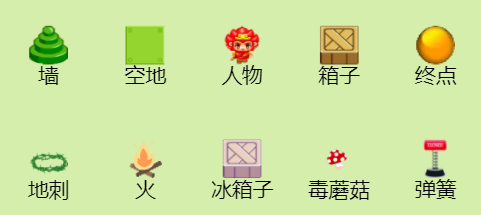
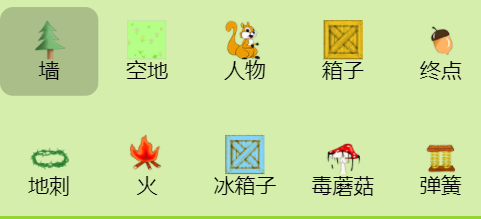
feat: 新增森林主题替换原网络来源主题; fix: 优化token失效时的逻辑

diff --git a/src/assets/css/theme.css b/src/assets/css/theme.css
@@ -1,49 +1,3 @@
-.theme-abstract {
-  --mainColor: #ccc;
-  --deepMainColor: #333;
-  --lightMainColor: #cccccc80;
-}
-
-.theme-abstract .game-container .game-table {
-  background-image: url('~@/assets/img/theme/abstract/floor.png');
-}
-
-.theme-abstract .floor {
-  background-image: url('~@/assets/img/theme/abstract/floor.png');
-}
-
-.theme-abstract .spikeweed {
-  background-image: url('~@/assets/img/theme/abstract/spikeweed.png');
-}
-
-.theme-abstract .wall {
-  background-image: url('~@/assets/img/theme/abstract/wall.png');
-}
-
-.theme-abstract .end {
-  background-image: url('~@/assets/img/theme/abstract/end.png');
-}
-
-.theme-abstract .fire {
-  background-image: url('~@/assets/img/theme/abstract/fire.png');
-}
-
-.theme-abstract .player {
-  background-image: url('~@/assets/img/theme/abstract/player.png');
-}
-
-.theme-abstract .box {
-  background-image: url('~@/assets/img/theme/abstract/box.png');
-}
-
-.theme-abstract .ice-box {
-  background-image: url('~@/assets/img/theme/abstract/ice-box.png');
-}
-
-.theme-abstract .box.end {
-  background-image: url('~@/assets/img/theme/abstract/end-box.png');
-}
-
 .theme-forest {
   --mainColor: #95d52f;
   --deepMainColor: #339933;
@@ -112,4 +66,120 @@
 
 .theme-forest .box.end {
   background-image: url('~@/assets/img/theme/forest/end-box.png');
+}
+
+.theme-abstract {
+  --mainColor: #ccc;
+  --deepMainColor: #333;
+  --lightMainColor: #cccccc80;
+}
+
+.theme-abstract .game-container .game-table {
+  background-image: url('~@/assets/img/theme/abstract/floor.png');
+}
+
+.theme-abstract .floor {
+  background-image: url('~@/assets/img/theme/abstract/floor.png');
+}
+
+.theme-abstract .spikeweed {
+  background-image: url('~@/assets/img/theme/abstract/spikeweed.png');
+}
+
+.theme-abstract .wall {
+  background-image: url('~@/assets/img/theme/abstract/wall.png');
+}
+
+.theme-abstract .end {
+  background-image: url('~@/assets/img/theme/abstract/end.png');
+}
+
+.theme-abstract .fire {
+  background-image: url('~@/assets/img/theme/abstract/fire.png');
+}
+
+.theme-abstract .player {
+  background-image: url('~@/assets/img/theme/abstract/player.png');
+}
+
+.theme-abstract .box {
+  background-image: url('~@/assets/img/theme/abstract/box.png');
+}
+
+.theme-abstract .ice-box {
+  background-image: url('~@/assets/img/theme/abstract/ice-box.png');
+}
+
+.theme-abstract .box.end {
+  background-image: url('~@/assets/img/theme/abstract/end-box.png');
+}
+
+.theme-net {
+  --mainColor: #95d52f;
+  --deepMainColor: #339933;
+  --lightMainColor: #95d52f80;
+}
+
+.theme-net .game-container .game-table {
+  background-image: url('~@/assets/img/theme/net/floor.png');
+}
+
+.theme-net .floor {
+  background-image: url('~@/assets/img/theme/net/floor.png');
+}
+
+.theme-net .spikeweed {
+  background-image: url('~@/assets/img/theme/net/spikeweed.png');
+}
+
+.theme-net .wall {
+  background-image: url('~@/assets/img/theme/net/wall.png');
+}
+
+.theme-net .end {
+  background-image: url('~@/assets/img/theme/net/end.png');
+}
+
+.theme-net .fire {
+  background-image: url('~@/assets/img/theme/net/fire.png');
+}
+
+.theme-net .toadstool {
+  background-image: url('~@/assets/img/theme/net/toadstool.png');
+}
+
+.theme-net .spring {
+  background-image: url('~@/assets/img/theme/net/spring.png');
+}
+
+.theme-net .single-portal-entry {
+  background-image: url('~@/assets/img/theme/net/single-portal-entry.png');
+}
+
+.theme-net .single-portal-exit {
+  background-image: url('~@/assets/img/theme/net/single-portal-exit.png');
+}
+
+.theme-net .beer {
+  background-image: url('~@/assets/img/theme/net/beer.png');
+}
+
+.theme-net .nectar {
+  background-image: url('~@/assets/img/theme/net/nectar.png');
+}
+
+.theme-net .player {
+  background-image: url('~@/assets/img/theme/net/player.png');
+}
+
+.theme-net .box {
+  background-image: url('~@/assets/img/theme/net/box.png');
+}
+
+.theme-net .ice-box {
+  background-image: url('~@/assets/img/theme/net/ice-box.png');
+}
+
+.theme-net .box.end {
+  background-image: url('~@/assets/img/theme/net/end-box.png');
 }

diff --git a/src/components/TopBar.vue b/src/components/TopBar.vue
@@ -177,14 +177,19 @@ export default {
       showPicker: false,
       theme: [
         {
+          title: '森林',
+          class: 'theme-forest',
+          intro: '经典的默认主题'
+        },
+        {
           title: '抽象',
           class: 'theme-abstract',
           intro: '作者亲笔所画，这波不用爆？'
         },
         {
-          title: '森林',
-          class: 'theme-forest',
-          intro: '经典的默认主题'
+          title: '网络',
+          class: 'theme-net',
+          intro: '素材来源网络，如有侵权请联系删除'
         }
       ],
       tabIndex: 0,

diff --git a/src/components/game-content/components/GameTable.vue b/src/components/game-content/components/GameTable.vue
@@ -31,7 +31,7 @@ export default {
     background-image: url('~@/assets/img/theme/forest/floor.png');
     display: inline-block;
     text-align: center;
-    border: 2px #e8eaed solid;
+    border: 2px #e8eaeda6 solid;
     .game-row {
       display: flex;
       .game-cell {

diff --git a/src/store/actions.js b/src/store/actions.js
@@ -11,7 +11,7 @@ export default {
       if (res.code === 0) {
         this.state.userInfo = res.data
         Notify({ type: 'success', message: `欢迎回来，${res.data.name}` })
-      }
+      } else window.localStorage.removeItem('token')
     })
   }
 }
